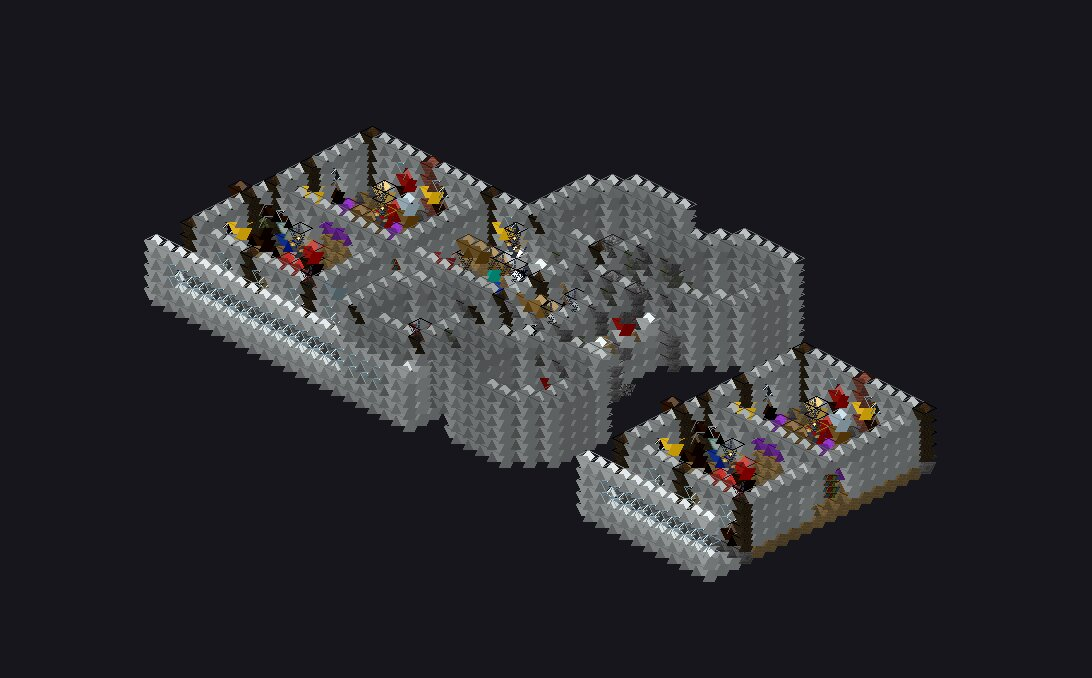
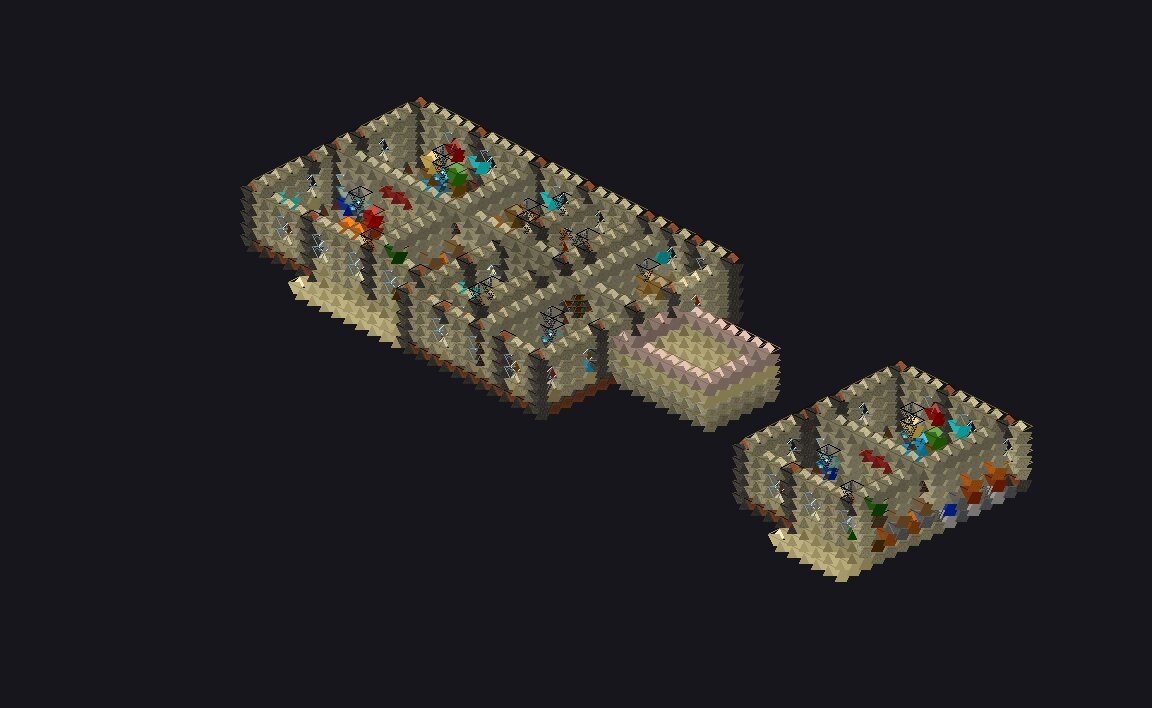
fix: update comparison viewer with re-generated realistic outputs
SF: desert 4f flat-roof apartment (was fantasy 9f castle)
Newton: modern 2f Victorian estate (was medieval 2f, arrays fixed)
Winchester: rustic 5f sprawling mansion (was fantasy 9f castle)

— Opus 4.6

Changed region(s): [[0.1245, 0.1239, 0.9029, 0.8673]]

diff --git a/web/public/comparison/index.html b/web/public/comparison/index.html
@@ -234,10 +234,10 @@ const LOCATIONS = {
     label: 'San Francisco',
     address: '2340 Francisco St, San Francisco, CA 94123',
     api: {
-      style: 'fantasy', floors: 9, grid: '50\u00d757\u00d735', blocks: '20,948',
-      sqft: '13,905', beds: 12, baths: 8, year: 1929,
+      style: 'desert', floors: 4, grid: '56\u00d725\u00d734', blocks: '9,901',
+      sqft: '13,905', beds: 12, baths: 12, year: 1929,
       sources: 'Parcl + OSM + Mapillary',
-      notes: 'OSM 8\u00d717 footprint, driveway detected'
+      notes: 'Multi-family detected (12 beds), flat roof, OSM 8\u00d717 footprint'
     },
     noapi: {
       style: 'fantasy', floors: 2, grid: '78\u00d720\u00d740', blocks: '15,190',
@@ -247,11 +247,11 @@ const LOCATIONS = {
     views: {
       exterior: { api: 'sf-api_exterior.jpg', noapi: 'sf-noapi_exterior.jpg' },
       cutaway: {
-        api: [0,1,2,3,4,5,6,7,8].map(i => `sf-api_cutaway_${i}.jpg`),
+        api: [0,1,2,3].map(i => `sf-api_cutaway_${i}.jpg`),
         noapi: [0,1,2,3].map(i => `sf-noapi_cutaway_${i}.jpg`),
       },
       floor: {
-        api: [0,1,2,3,4,5,6,7,8].map(i => `sf-api_floor_${i}.jpg`),
+        api: [0,1,2,3].map(i => `sf-api_floor_${i}.jpg`),
         noapi: [0,1,2,3].map(i => `sf-noapi_floor_${i}.jpg`),
       },
     },
@@ -260,10 +260,10 @@ const LOCATIONS = {
     label: 'Newton',
     address: '240 Highland St, Newton, MA 02465',
     api: {
-      style: 'medieval', floors: 2, grid: '57\u00d722\u00d738', blocks: '11,145',
-      sqft: '9,094', beds: 9, baths: 5, year: 1899,
+      style: 'modern', floors: 2, grid: '69\u00d715\u00d743', blocks: '9,231',
+      sqft: '9,094', beds: 9, baths: 5, year: '? (uncertain)',
       sources: 'Parcl + OSM + Mapillary',
-      notes: 'OSM 17\u00d721 footprint, 3 Mapillary images'
+      notes: 'Year uncertain \u2014 OSM 17\u00d721 footprint, 1 Mapillary image'
     },
     noapi: {
       style: 'fantasy', floors: 2, grid: '78\u00d720\u00d740', blocks: '15,190',
@@ -273,11 +273,11 @@ const LOCATIONS = {
     views: {
       exterior: { api: 'newton-api_exterior.jpg', noapi: 'newton-noapi_exterior.jpg' },
       cutaway: {
-        api: [0,1,2,3].map(i => `newton-api_cutaway_${i}.jpg`),
+        api: [0,1].map(i => `newton-api_cutaway_${i}.jpg`),
         noapi: [0,1,2,3].map(i => `newton-noapi_cutaway_${i}.jpg`),
       },
       floor: {
-        api: [0,1,2,3].map(i => `newton-api_floor_${i}.jpg`),
+        api: [0,1].map(i => `newton-api_floor_${i}.jpg`),
         noapi: [0,1,2,3].map(i => `newton-noapi_floor_${i}.jpg`),
       },
     },
@@ -286,10 +286,10 @@ const LOCATIONS = {
     label: 'San Jose',
     address: '525 S Winchester Blvd, San Jose, CA 95128',
     api: {
-      style: 'fantasy', floors: 9, grid: '93\u00d757\u00d777', blocks: '43,953',
+      style: 'rustic', floors: 5, grid: '135\u00d735\u00d777', blocks: '77,895',
       sqft: '24,000', beds: 3, baths: 2, year: 1901,
       sources: 'Parcl + OSM + Mapillary',
-      notes: 'Winchester Mystery House \u2014 OSM 53\u00d760, 9 levels'
+      notes: 'Winchester Mystery House \u2014 OSM 53\u00d760, rustic Victorian'
     },
     noapi: {
       style: 'fantasy', floors: 2, grid: '78\u00d720\u00d740', blocks: '15,190',
@@ -299,11 +299,11 @@ const LOCATIONS = {
     views: {
       exterior: { api: 'sanjose-api_exterior.jpg', noapi: 'sanjose-noapi_exterior.jpg' },
       cutaway: {
-        api: [0,1,2,3,4,5,6,7,8].map(i => `sanjose-api_cutaway_${i}.jpg`),
+        api: [0,1,2,3,4].map(i => `sanjose-api_cutaway_${i}.jpg`),
         noapi: [0,1,2,3].map(i => `sanjose-noapi_cutaway_${i}.jpg`),
       },
       floor: {
-        api: [0,1,2,3,4,5,6,7,8].map(i => `sanjose-api_floor_${i}.jpg`),
+        api: [0,1,2,3,4].map(i => `sanjose-api_floor_${i}.jpg`),
         noapi: [0,1,2,3].map(i => `sanjose-noapi_floor_${i}.jpg`),
       },
     },
